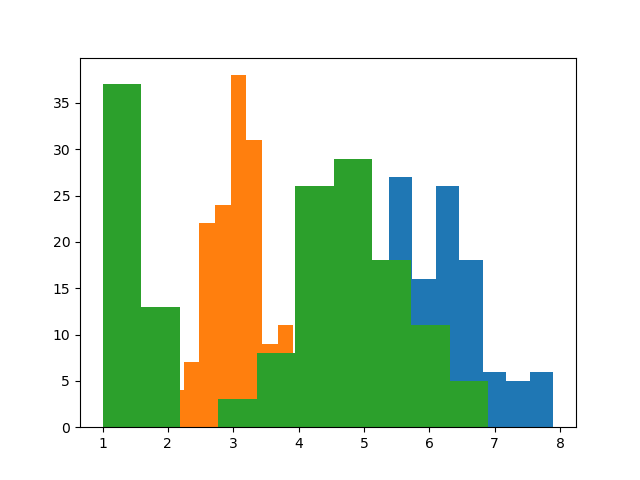
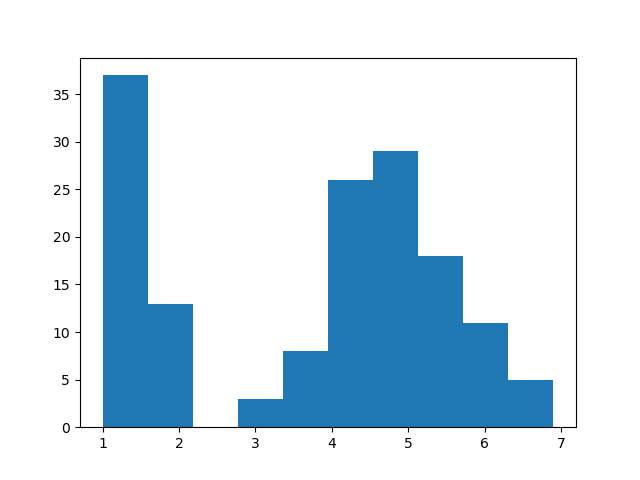
separate histograms

diff --git a/analysis.py b/analysis.py
@@ -30,10 +30,14 @@ petal_width = df["petal_width"].to_numpy()
 
 plt.hist(sepal_length)
 plt.savefig('sepal_length.png')
+plt.close()
 plt.hist(sepal_width)
 plt.savefig('sepal_width.png')
+plt.close()
 plt.hist(petal_length)
 plt.savefig('petal_length.png')
+plt.close()
 plt.hist(petal_width)
 plt.savefig('petal_width.png')
+plt.close()
 #https://stackoverflow.com/questions/9622163/save-plot-to-image-file-instead-of-displaying-it
